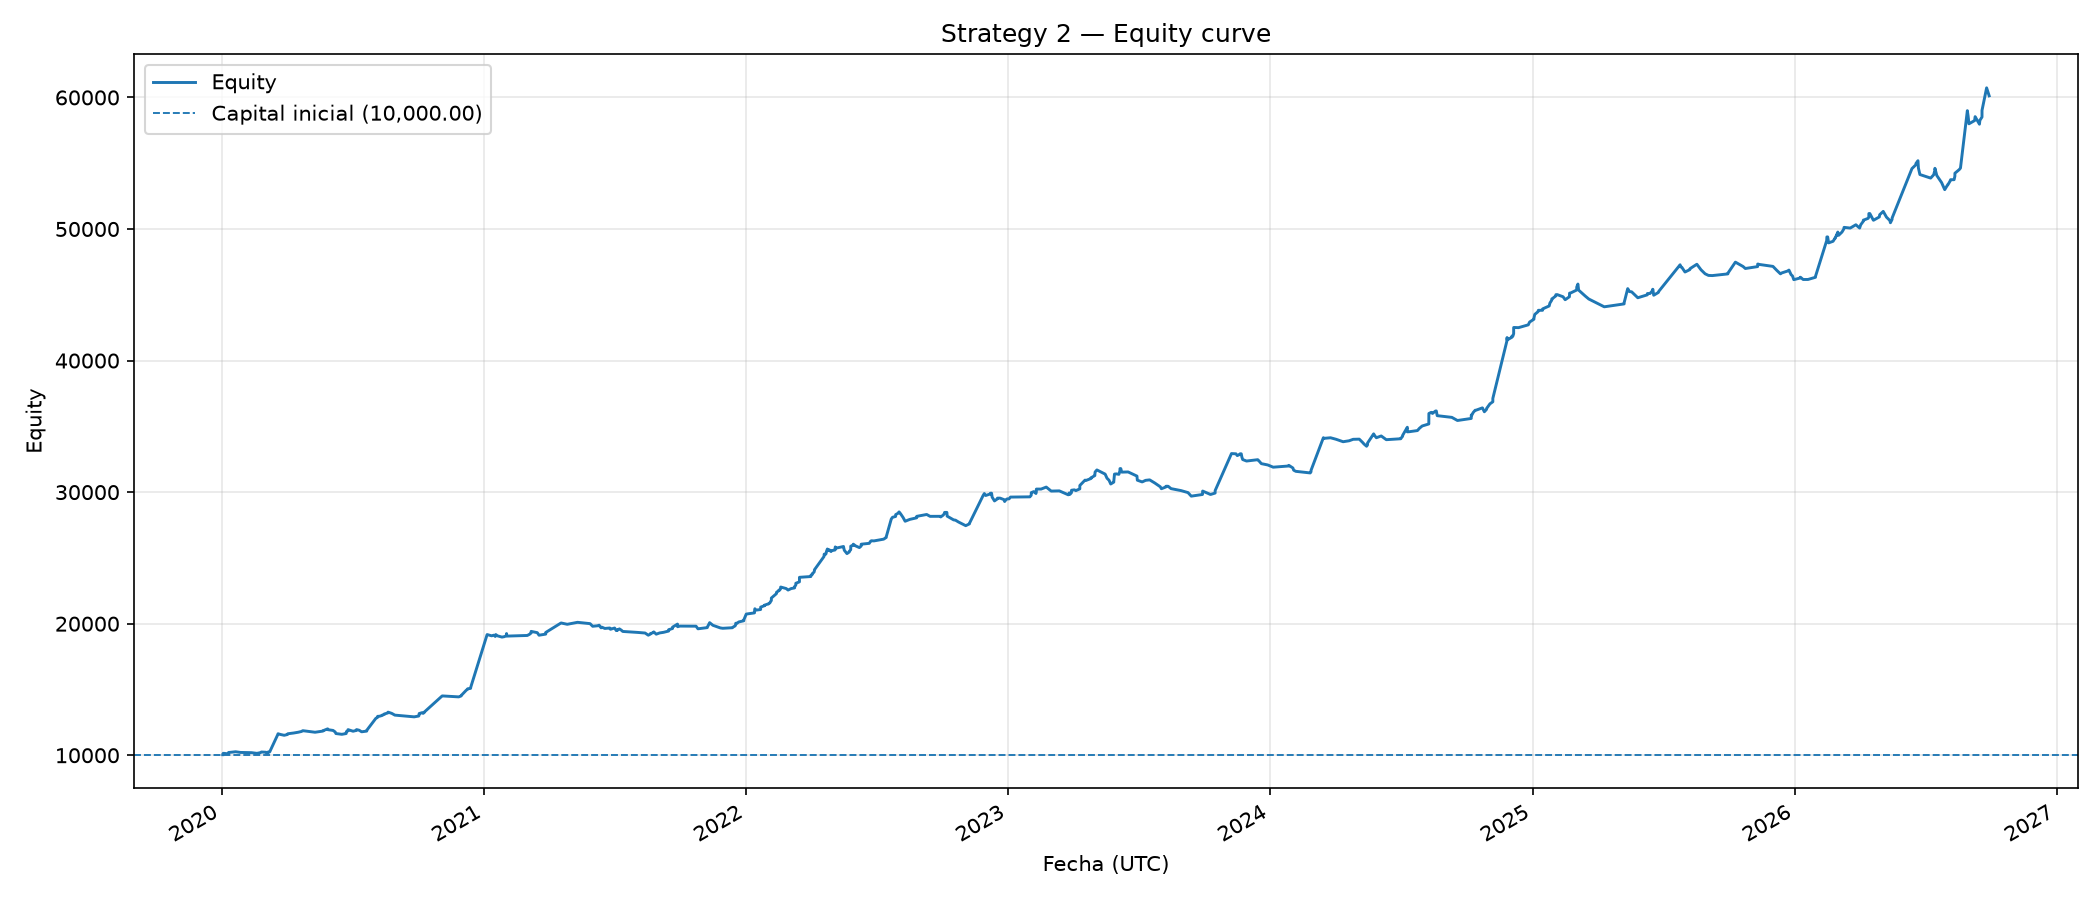
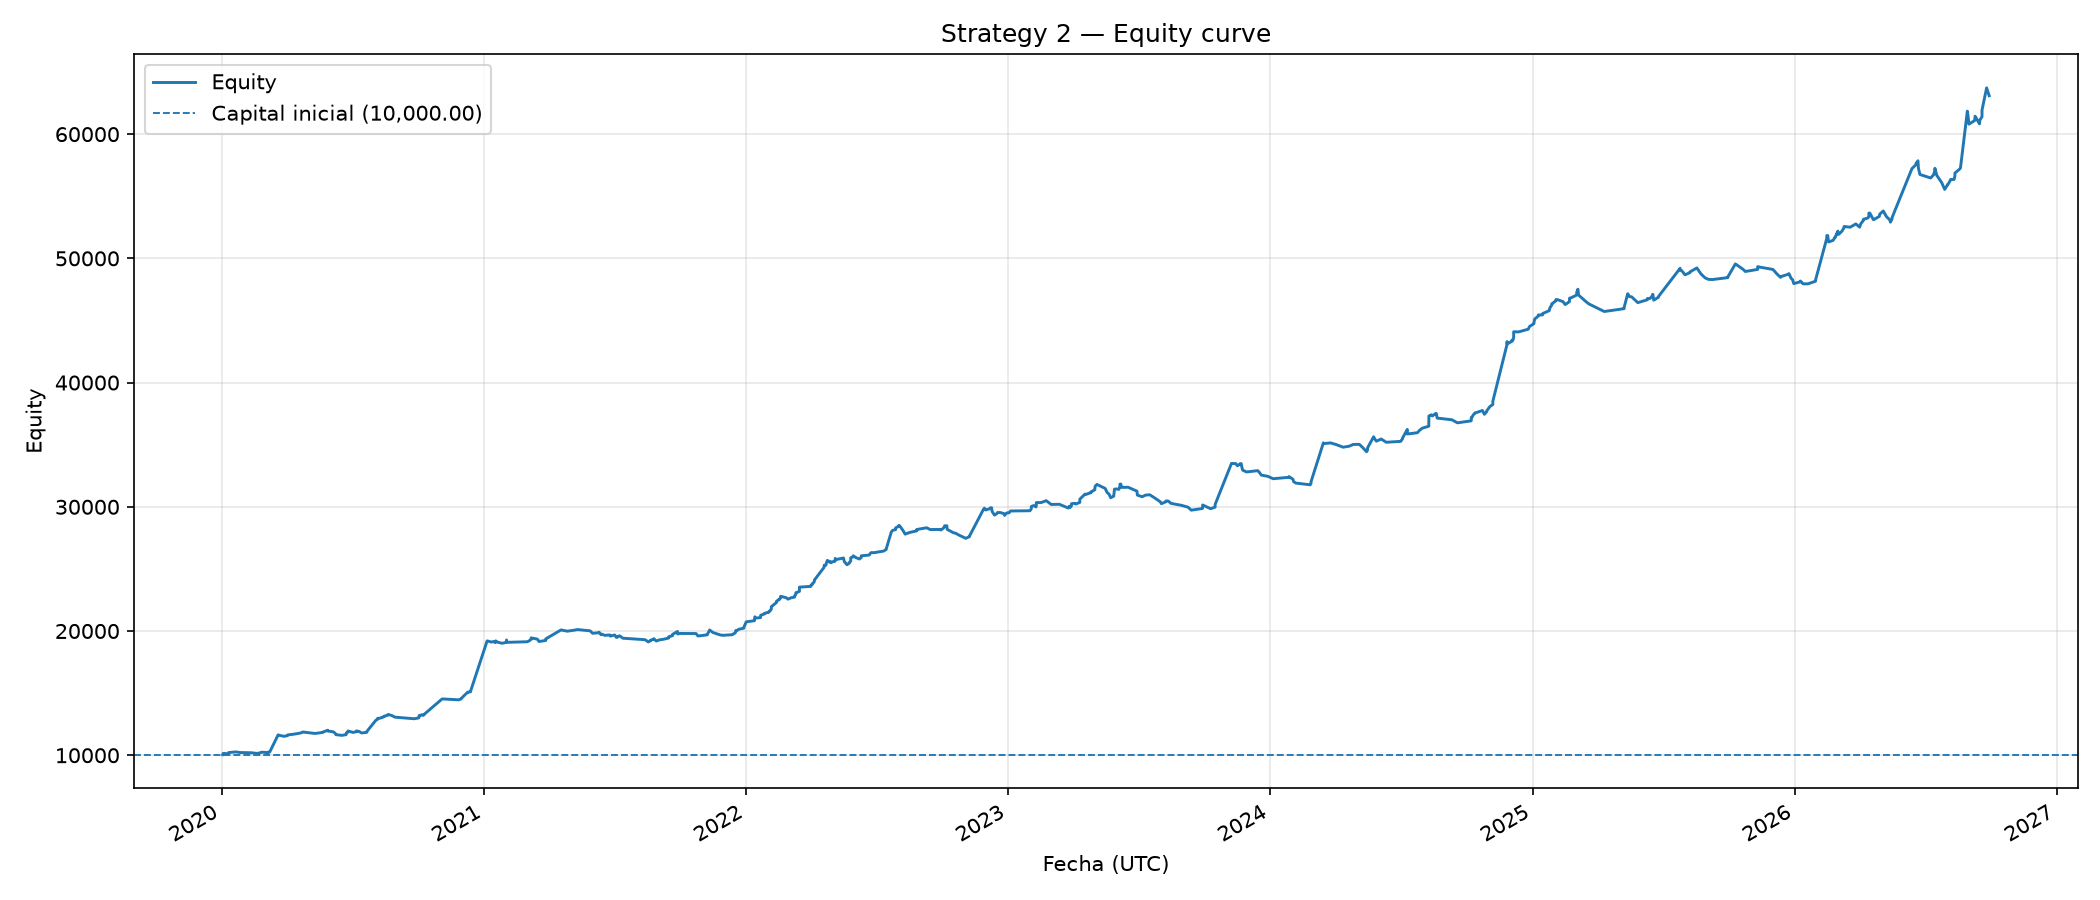
update

diff --git a/backend/services/backtest/bin/legacy/strategy/strategy.py b/backend/services/backtest/bin/legacy/strategy/strategy.py
@@ -462,6 +462,13 @@ class EMACrossStrategy:
             if cfg.entry_adx_enabled and entry_dmi is not None
             else np.full(len(bars), np.nan)
         )
+        entry_mfi = None
+        if cfg.entry_mfi_risk_scaling_enabled and "volume" in bars:
+            mfi_inputs = tuple(
+                np.ascontiguousarray(bars[column].to_numpy(dtype=np.float64))
+                for column in ("high", "low", "close", "volume")
+            )
+            entry_mfi = talib.MFI(*mfi_inputs, timeperiod=cfg.entry_mfi_len)
         if cfg.entry_adx_enabled:
             allowed = np.nan_to_num(entry_adx, nan=0.0) >= cfg.entry_adx_min
             up, down = up & allowed, down & allowed
@@ -488,6 +495,8 @@ class EMACrossStrategy:
         if cfg.entry_dmi_risk_scaling_enabled and entry_dmi is not None:
             output["entry_plus_di"] = entry_dmi["plus_di"].to_numpy(float)
             output["entry_minus_di"] = entry_dmi["minus_di"].to_numpy(float)
+        if entry_mfi is not None:
+            output["entry_mfi"] = np.asarray(entry_mfi, dtype=float)
         return pd.DataFrame(output, index=bars.index)
 
     def prepare_exits(self, raw: pd.DataFrame, bars: pd.DataFrame) -> tuple[
@@ -547,6 +556,10 @@ class Backtester:
         self.entry_minus_di = (
             self.signals["entry_minus_di"].to_numpy(float)
             if "entry_minus_di" in self.signals else None
+        )
+        self.entry_mfi = (
+            self.signals["entry_mfi"].to_numpy(float)
+            if "entry_mfi" in self.signals else None
         )
         pattern_arrays = (
             candle_bull_exit, candle_bear_exit, signed_bull_exit, signed_bear_exit, doji_exit
@@ -642,7 +655,8 @@ class Backtester:
         risk_unit = self._risk_per_unit(side, price, pct_sl) if pct_sl > 0 else 0.0
         by_risk = (
             self.cash * self.cfg.risk_pct * self._risk_multiplier()
-            * self._monthly_risk_scale() * self._entry_dmi_risk_multiplier(side) / risk_unit
+            * self._monthly_risk_scale() * self._entry_dmi_risk_multiplier(side)
+            * self._entry_mfi_risk_multiplier(side) / risk_unit
             if risk_unit > 0 else np.inf
         )
         by_lev = self.cash * self.cfg.max_leverage / price
@@ -760,6 +774,24 @@ class Backtester:
             spread_in_trade_direction / cfg.entry_dmi_risk_spread_scale
         )
         return float(np.clip(factor, cfg.entry_dmi_risk_min, cfg.entry_dmi_risk_max))
+
+    def _entry_mfi_risk_multiplier(self, side: int) -> float:
+        """Escala tamaño por flujo MFI de la última vela de señal ya cerrada."""
+        cfg = self.cfg
+        if (not cfg.entry_mfi_risk_scaling_enabled or self.entry_mfi is None
+                or side not in (1, -1)):
+            return 1.0
+        signal_index = self._bar_index - 1
+        if signal_index < 0 or signal_index >= len(self.entry_mfi):
+            return 1.0
+        value = self.entry_mfi[signal_index]
+        if not np.isfinite(value):
+            return 1.0
+        directional_flow = (value - 50.0) * side
+        factor = cfg.entry_mfi_risk_base + (
+            directional_flow / cfg.entry_mfi_risk_spread_scale
+        )
+        return float(np.clip(factor, cfg.entry_mfi_risk_min, cfg.entry_mfi_risk_max))
 
     def _monthly_risk_scale(self) -> float:
         """Escala de tamaño según el drawdown acumulado del mes calendario.
@@ -1467,6 +1499,15 @@ def parse_args():
                    help="Escala de diferencia DI direccional para el multiplicador de riesgo.")
     p.add_argument("--entry-dmi-risk-min", type=float, default=d.entry_dmi_risk_min)
     p.add_argument("--entry-dmi-risk-max", type=float, default=d.entry_dmi_risk_max)
+    p.add_argument("--entry-mfi-risk-scaling", action=argparse.BooleanOptionalAction,
+                   default=d.entry_mfi_risk_scaling_enabled,
+                   help="Modula el tamaño con MFI (precio/volumen), sin bloquear entradas.")
+    p.add_argument("--entry-mfi-len", type=int, default=d.entry_mfi_len)
+    p.add_argument("--entry-mfi-risk-base", type=float, default=d.entry_mfi_risk_base)
+    p.add_argument("--entry-mfi-risk-spread-scale", type=float,
+                   default=d.entry_mfi_risk_spread_scale)
+    p.add_argument("--entry-mfi-risk-min", type=float, default=d.entry_mfi_risk_min)
+    p.add_argument("--entry-mfi-risk-max", type=float, default=d.entry_mfi_risk_max)
     p.add_argument("--adx-exit", action=argparse.BooleanOptionalAction, default=d.adx_exit_enabled)
     p.add_argument("--adx-timeframe", default=d.adx_timeframe,
                    help="Timeframe(s) ADX de salida separados por coma; se combinan con OR (p. ej. 1D,30min).")
@@ -1653,6 +1694,12 @@ def config_from_args(a) -> Config:
         entry_dmi_risk_spread_scale=a.entry_dmi_risk_spread_scale,
         entry_dmi_risk_min=a.entry_dmi_risk_min,
         entry_dmi_risk_max=a.entry_dmi_risk_max,
+        entry_mfi_risk_scaling_enabled=a.entry_mfi_risk_scaling,
+        entry_mfi_len=a.entry_mfi_len,
+        entry_mfi_risk_base=a.entry_mfi_risk_base,
+        entry_mfi_risk_spread_scale=a.entry_mfi_risk_spread_scale,
+        entry_mfi_risk_min=a.entry_mfi_risk_min,
+        entry_mfi_risk_max=a.entry_mfi_risk_max,
         adx_exit_enabled=a.adx_exit, adx_timeframe=a.adx_timeframe, adx_dilen=a.adx_dilen,
         adx_adxlen=a.adx_adxlen, adx_key_level=a.adx_key_level, adx_exit_pct=a.adx_exit_pct,
         adx_exit_range=a.adx_exit_range,

diff --git a/backend/services/backtest/bin/legacy/tests/test_entry_dmi_risk.py b/backend/services/backtest/bin/legacy/tests/test_entry_dmi_risk.py
@@ -30,6 +30,7 @@ def test_entry_dmi_risk_uses_directional_spread_from_prior_signal_bar():
             "trend_bias": 0,
             "entry_plus_di": [10.0, 30.0, 90.0],
             "entry_minus_di": [10.0, 10.0, 0.0],
+            "entry_mfi": [50.0, 70.0, 30.0],
         },
         index=bars.index,
     )
@@ -38,6 +39,8 @@ def test_entry_dmi_risk_uses_directional_spread_from_prior_signal_bar():
 
     assert engine._entry_dmi_risk_multiplier(1) == pytest.approx(1.1)
     assert engine._entry_dmi_risk_multiplier(-1) == pytest.approx(0.7)
+    assert engine._entry_mfi_risk_multiplier(1) == pytest.approx(1.2)
+    assert engine._entry_mfi_risk_multiplier(-1) == pytest.approx(0.8)
 
 
 def test_entry_dmi_risk_multiplier_is_clamped_and_can_be_disabled():
@@ -49,6 +52,7 @@ def test_entry_dmi_risk_multiplier_is_clamped_and_can_be_disabled():
             "trend_bias": 0,
             "entry_plus_di": [10.0, 100.0, 0.0],
             "entry_minus_di": [10.0, 0.0, 100.0],
+            "entry_mfi": [50.0, 0.0, 100.0],
         },
         index=bars.index,
     )
@@ -56,11 +60,18 @@ def test_entry_dmi_risk_multiplier_is_clamped_and_can_be_disabled():
     engine._bar_index = 2
     assert engine._entry_dmi_risk_multiplier(1) == pytest.approx(1.25)
     assert engine._entry_dmi_risk_multiplier(-1) == pytest.approx(0.5)
+    assert engine._entry_mfi_risk_multiplier(1) == pytest.approx(0.5)
+    assert engine._entry_mfi_risk_multiplier(-1) == pytest.approx(1.25)
 
-    disabled = Config(timeframe="30min", entry_dmi_risk_scaling_enabled=False)
+    disabled = Config(
+        timeframe="30min",
+        entry_dmi_risk_scaling_enabled=False,
+        entry_mfi_risk_scaling_enabled=False,
+    )
     no_scale = Backtester(bars, disabled, signals=signals)
     no_scale._bar_index = 2
     assert no_scale._entry_dmi_risk_multiplier(1) == 1.0
+    assert no_scale._entry_mfi_risk_multiplier(1) == 1.0
 
 
 def test_generated_signals_expose_di_values_without_filtering_entries():
@@ -70,11 +81,14 @@ def test_generated_signals_expose_di_values_without_filtering_entries():
         timeframe="30min",
         streak_trend_only=False,
         entry_dmi_risk_scaling_enabled=False,
+        entry_mfi_risk_scaling_enabled=False,
     )
 
     signals_with_dmi = EMACrossStrategy(enabled).generate_signals(bars)
     signals_without_scaling = EMACrossStrategy(disabled).generate_signals(bars)
 
     assert {"entry_plus_di", "entry_minus_di"} <= set(signals_with_dmi.columns)
+    assert "entry_mfi" in signals_with_dmi
     assert "entry_plus_di" not in signals_without_scaling
+    assert "entry_mfi" not in signals_without_scaling
     assert np.array_equal(signals_with_dmi.target, signals_without_scaling.target)

diff --git a/backend/services/backtest/bin/legacy/strategy/config.py b/backend/services/backtest/bin/legacy/strategy/config.py
@@ -42,6 +42,13 @@ class Config:
     entry_dmi_risk_spread_scale: float = 100.0
     entry_dmi_risk_min: float = 0.5
     entry_dmi_risk_max: float = 1.25
+    # MFI modula adicionalmente el tamaño según flujo de dinero a favor.
+    entry_mfi_risk_scaling_enabled: bool = True
+    entry_mfi_len: int = 14
+    entry_mfi_risk_base: float = 1.0
+    entry_mfi_risk_spread_scale: float = 100.0
+    entry_mfi_risk_min: float = 0.5
+    entry_mfi_risk_max: float = 1.25
 
     adx_exit_enabled: bool = True
     # Uno o varios timeframes (combinados con OR). Acepta "1D", "1D,30min" o
@@ -341,6 +348,12 @@ class Config:
             or self.entry_dmi_risk_max < self.entry_dmi_risk_min
         ):
             raise ValueError("Configuración de escalado DMI de riesgo inválida.")
+        if self.entry_mfi_risk_scaling_enabled and (
+            self.entry_mfi_len <= 0 or self.entry_mfi_risk_spread_scale <= 0
+            or self.entry_mfi_risk_min <= 0
+            or self.entry_mfi_risk_max < self.entry_mfi_risk_min
+        ):
+            raise ValueError("Configuración de escalado MFI de riesgo inválida.")
         if self.entry_dmi_risk_scaling_enabled and (
             self.entry_adx_len <= 0 or self.entry_dmi_risk_spread_scale <= 0
             or self.entry_dmi_risk_min <= 0

diff --git a/backend/services/backtest/bin/legacy/bot1/bot.py b/backend/services/backtest/bin/legacy/bot1/bot.py
@@ -224,6 +224,12 @@ _CONFIG_ENV = {
     "entry_dmi_risk_spread_scale": ("STRATEGY_ENTRY_DMI_RISK_SPREAD_SCALE", env_float),
     "entry_dmi_risk_min": ("STRATEGY_ENTRY_DMI_RISK_MIN", env_float),
     "entry_dmi_risk_max": ("STRATEGY_ENTRY_DMI_RISK_MAX", env_float),
+    "entry_mfi_risk_scaling_enabled": ("STRATEGY_ENTRY_MFI_RISK_SCALING", env_bool),
+    "entry_mfi_len": ("STRATEGY_ENTRY_MFI_LEN", env_int),
+    "entry_mfi_risk_base": ("STRATEGY_ENTRY_MFI_RISK_BASE", env_float),
+    "entry_mfi_risk_spread_scale": ("STRATEGY_ENTRY_MFI_RISK_SPREAD_SCALE", env_float),
+    "entry_mfi_risk_min": ("STRATEGY_ENTRY_MFI_RISK_MIN", env_float),
+    "entry_mfi_risk_max": ("STRATEGY_ENTRY_MFI_RISK_MAX", env_float),
     # Gestión de posición: afecta el sizing y las salidas (stop/partial).
     "initial_capital": ("STRATEGY_INITIAL_CAPITAL", env_float),
     "commission_bps": ("STRATEGY_COMMISSION_BPS", env_float),
